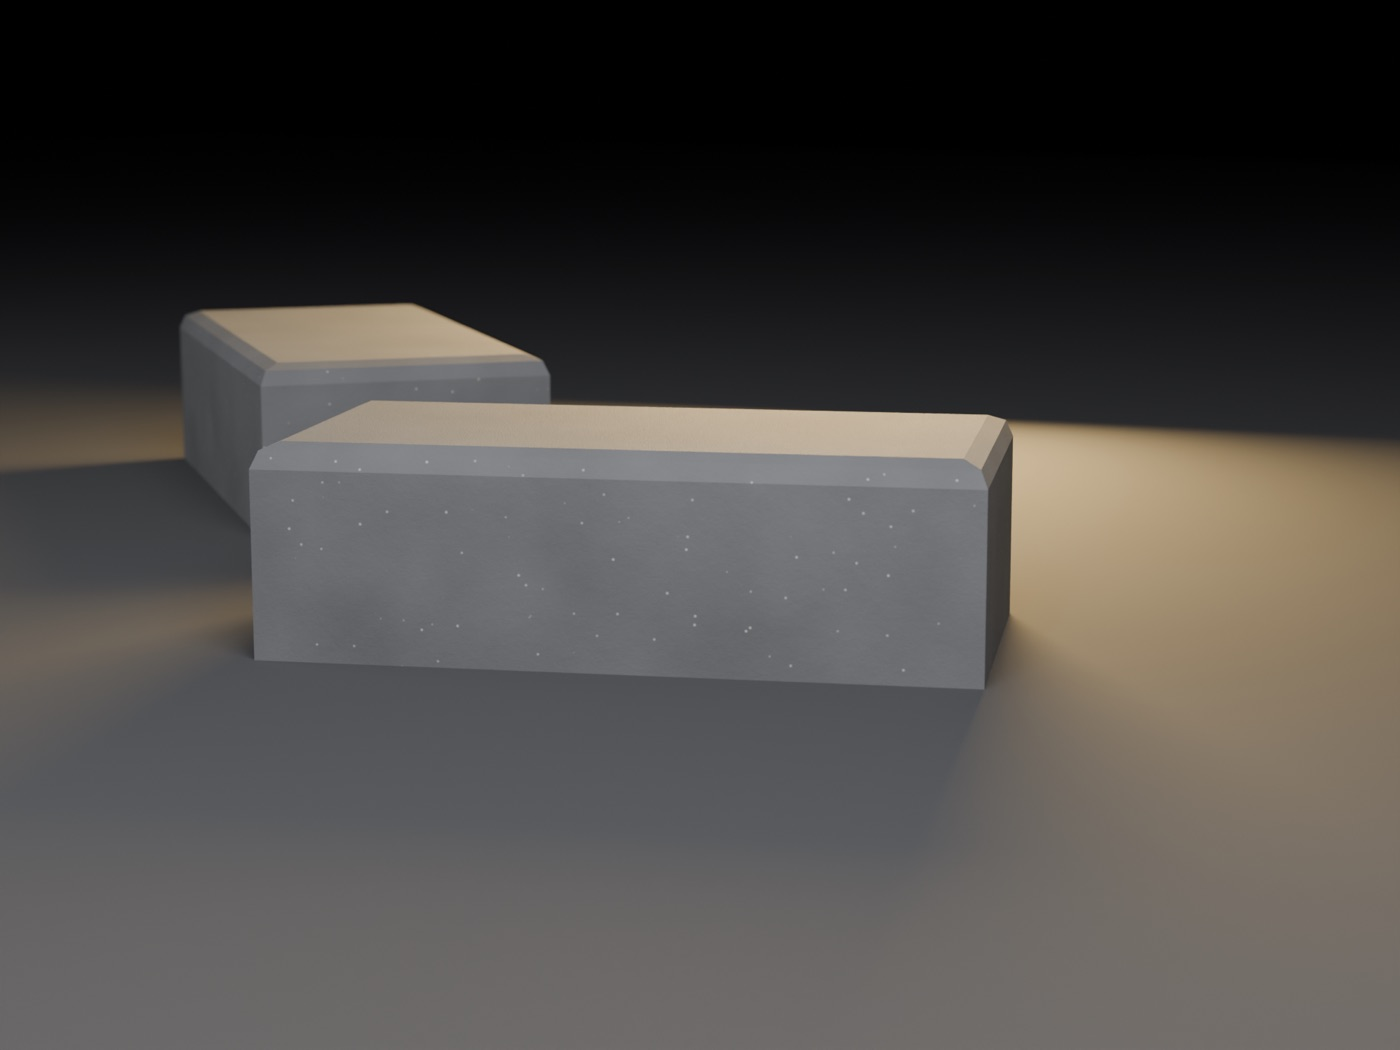
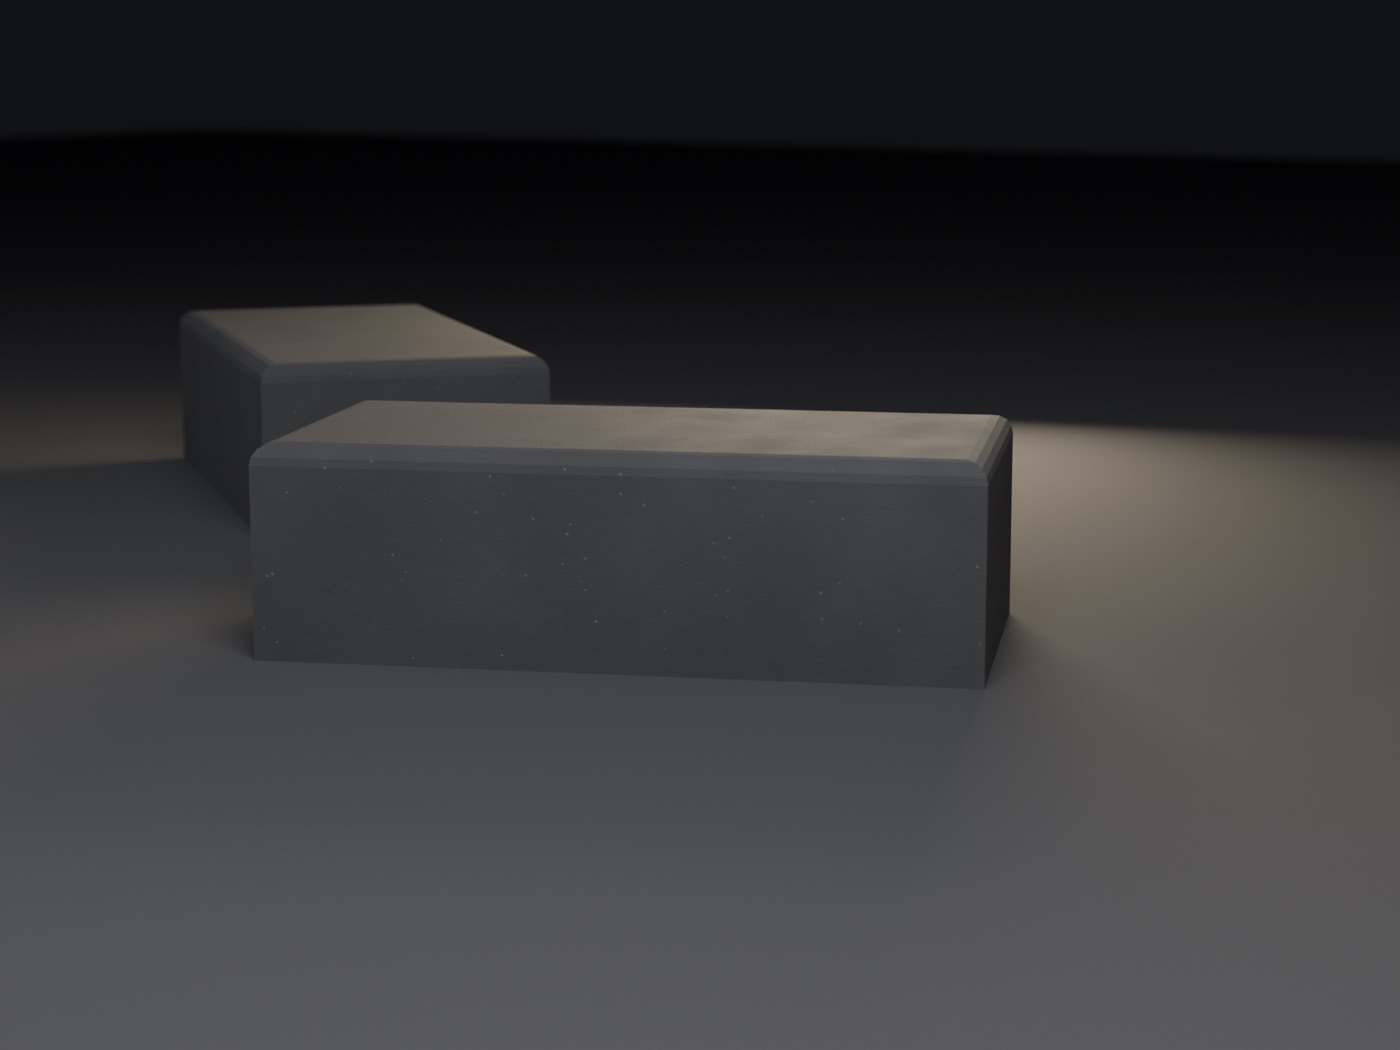
Hero: Blender-rendered paver (top-chamfer, face/back-mix textures); per-material delta chart; editable material prices

diff --git a/web/deck.html b/web/deck.html
@@ -82,6 +82,9 @@
   .bizrow:last-child{border-bottom:0}
   .bizrow .arrow{color:var(--amber);font-family:var(--mono)}
   .bizrow b{font-family:var(--mono);font-weight:600}
+  .heroimg{position:absolute;right:0;top:0;bottom:0;width:54%;object-fit:cover;object-position:center right;
+    -webkit-mask-image:linear-gradient(90deg,transparent 0%,#000 38%);mask-image:linear-gradient(90deg,transparent 0%,#000 38%);z-index:0}
+  .z{position:relative;z-index:1}
 .hint{text-align:center;color:var(--faint);font-family:var(--mono);font-size:12px;padding:6px 0 30px}
   @page{size:13.333in 7.5in;margin:0}
   @media print{
@@ -98,11 +101,12 @@
   <!-- 01 · HOOK -->
   <section class="slide">
     <div class="num">01</div>
-    <div class="kick">AMD Developer Hackathon · ACT II · Track 3 Unicorn</div>
+    <img class="heroimg" src="assets/paver-render.png" alt="">
+    <div class="kick z">AMD Developer Hackathon · ACT II · Track 3 Unicorn</div>
     <div class="spacer"></div>
-    <h1>The AI committee <em>rejected</em> the cheapest, greenest mix.</h1>
-    <div class="sub" style="font-size:21px">Because the bricks would have failed on the factory floor. That judgment — cheaper, greener, <b>but never below spec</b> — is MixMind.</div>
-    <div class="chipsrow">
+    <h1 class="z" style="max-width:13ch">The AI committee <em>rejected</em> the cheapest, greenest mix.</h1>
+    <div class="sub z" style="font-size:21px;max-width:44ch">Because the bricks would have failed on the factory floor. That judgment — cheaper, greener, <b>but never below spec</b> — is MixMind.</div>
+    <div class="chipsrow z">
       <span class="chip">Gemma 4 12B · LoRA fine-tuned</span>
       <span class="chip">AMD Radeon W7900 + Instinct MI300X · ROCm</span>
       <span class="chip">strength model R² 0.910 · measured</span>